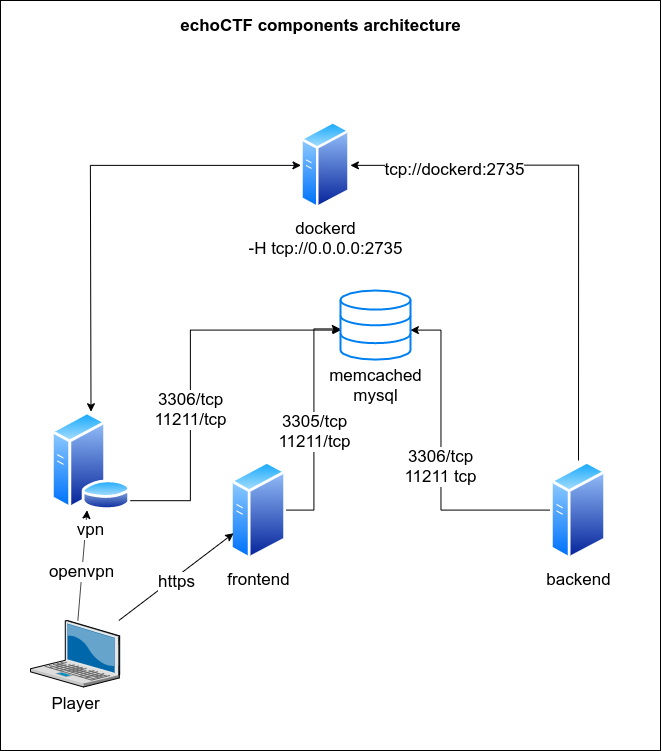
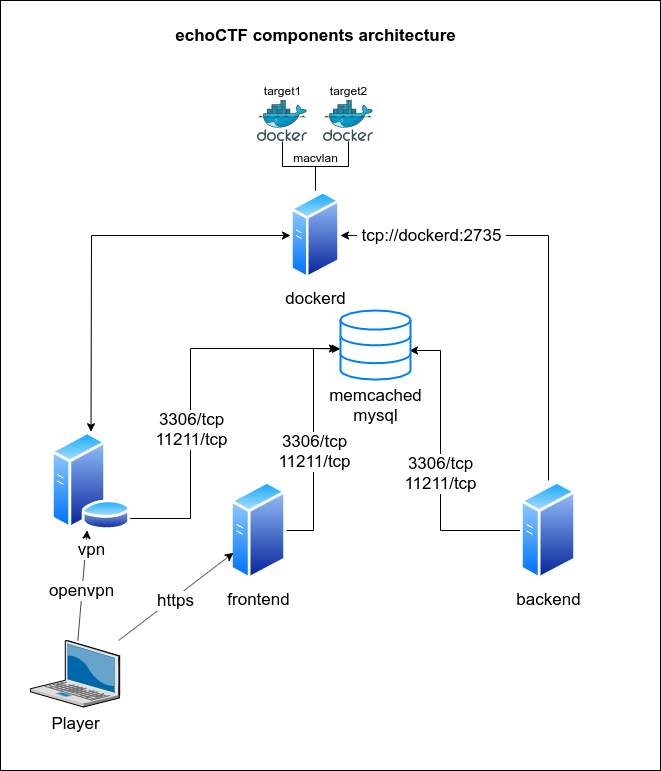
update the architecture documentation include dockerd and target details as well as information for the remaining infrustructure

diff --git a/docs/ARCHITECTURE.md b/docs/ARCHITECTURE.md
@@ -1,11 +1,59 @@
 # echoCTF.RED architecture details
 The following document provides a generic overview of the various components of the platform.
 
-![echoCTF.RED Components Architecture](/docs/architecture%20diagram.png?raw=true)
+![echoCTF.RED Components Architecture](/docs/architecture%20diagram.png?raw=true&1)
+
 
 ## dockerd
-In order to manage, launch and restart targets from the web interfaces we require access to the a docker server.
+In order be able to manage, launch and restart targets from the web interfaces,
+access to the docker server is required.
 
-This is usually achieved by configuring a dockerd server to listen on a tcp port (eg by adding `-H tcp://0.0.0.0:2376` on the dockerd start up options).
+This is usually achieved by configuring a dockerd server to listen on a tcp
+port (eg by adding `-H tcp://0.0.0.0:2735` on the dockerd start up options).
 
-_Special care should be taken to only allow the moderator interface and vpn server to access this service._
+_Special care should be taken to only allow the moderator interface and vpn
+server to access this service._
+
+The docker servers are expected to have a maclan network configured for the
+targets to attach to. More details about docker and macvlan networking can be
+found at https://docs.docker.com/network/macvlan/
+
+Tha docker containers acting as targets are assigned a unique ip that needs to
+accessible by the players.
+
+### Targets
+The targets can be any docker image however a few rules are good to be followed
+
+* develop target images that are self contained. That is the images are build in
+a way that all their dependencies are configured during the image build process
+(ie `docker build .`).
+
+* develop target images that don't perform configuration steps at runtime.
+Ensure your image can start without internet access and dont need to download
+files or install databases during startup.
+
+* develop each target with the premise that it has its own IP and FQDN. The
+platform takes care at starting up the targets with the required options.
+
+
+## vpn
+The vpn server is responsible for providing access to the targets through
+OpenVPN as well as acting as a gateway for the docker servers and targets.
+
+It also provides tracking of findings, which is services running on a target
+(either tcp, udp or icmp). When findings are activated for the platform, every
+target port is monitored for connections by the gateway (`findingsd`) and
+assigns points to the user who initiated the connection.
+
+The VPN server needs to be able to access the central mysql database as well
+as the memcache service.
+
+## frontend
+The frontend interface servers as the point of interaction between players and
+the platform. It only needs to be able to access the database and memcache
+service.
+
+## backend
+The backend interface allows administrators of the platform to manage aspects
+of the infrastructure data. The backend needs to be able to communicate with
+the mysql and memcache as well as the dockerd service (eg `2735/tcp`).
